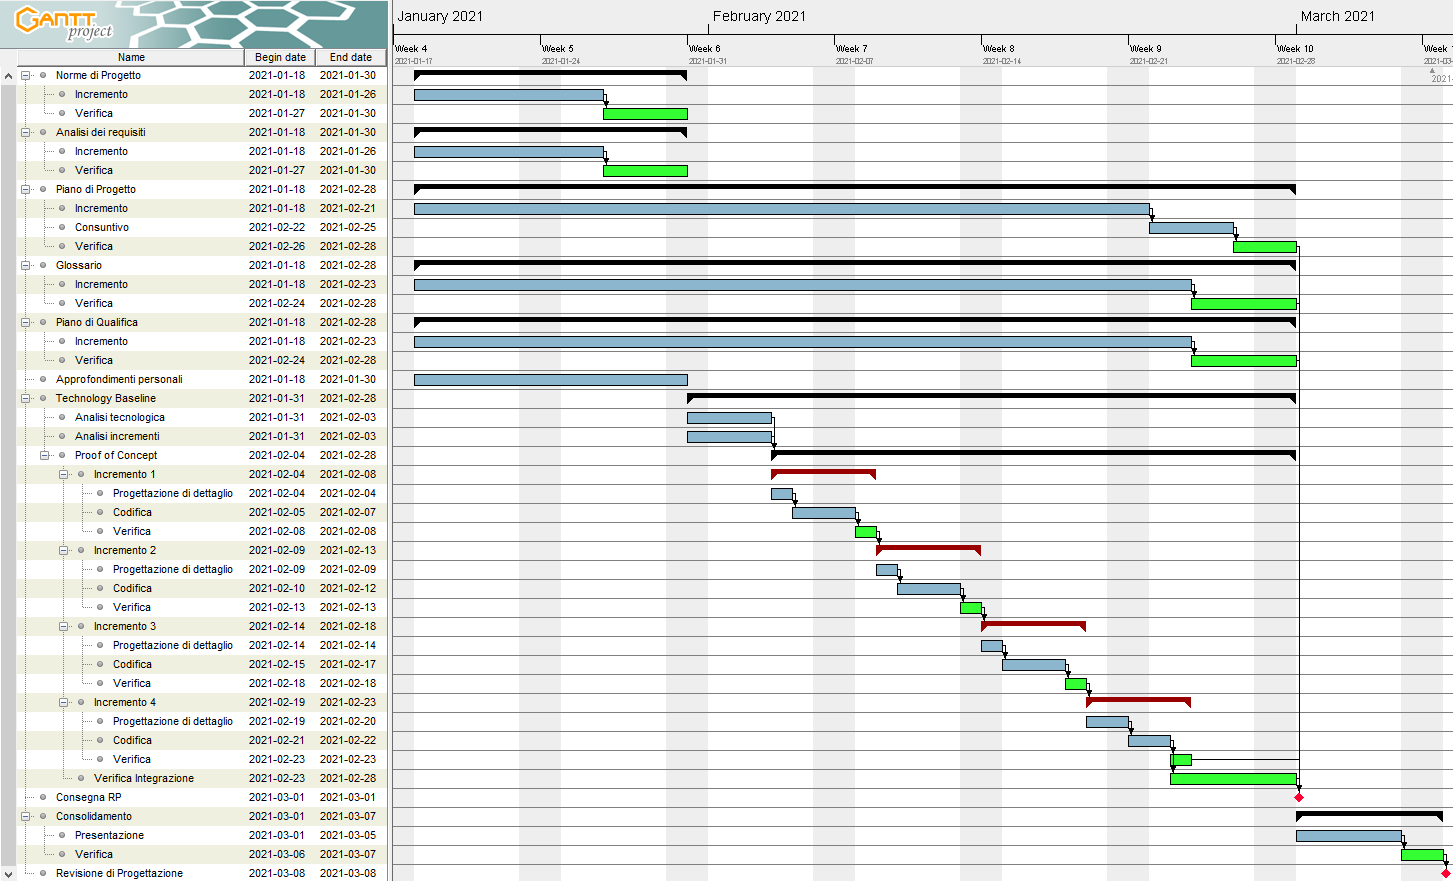
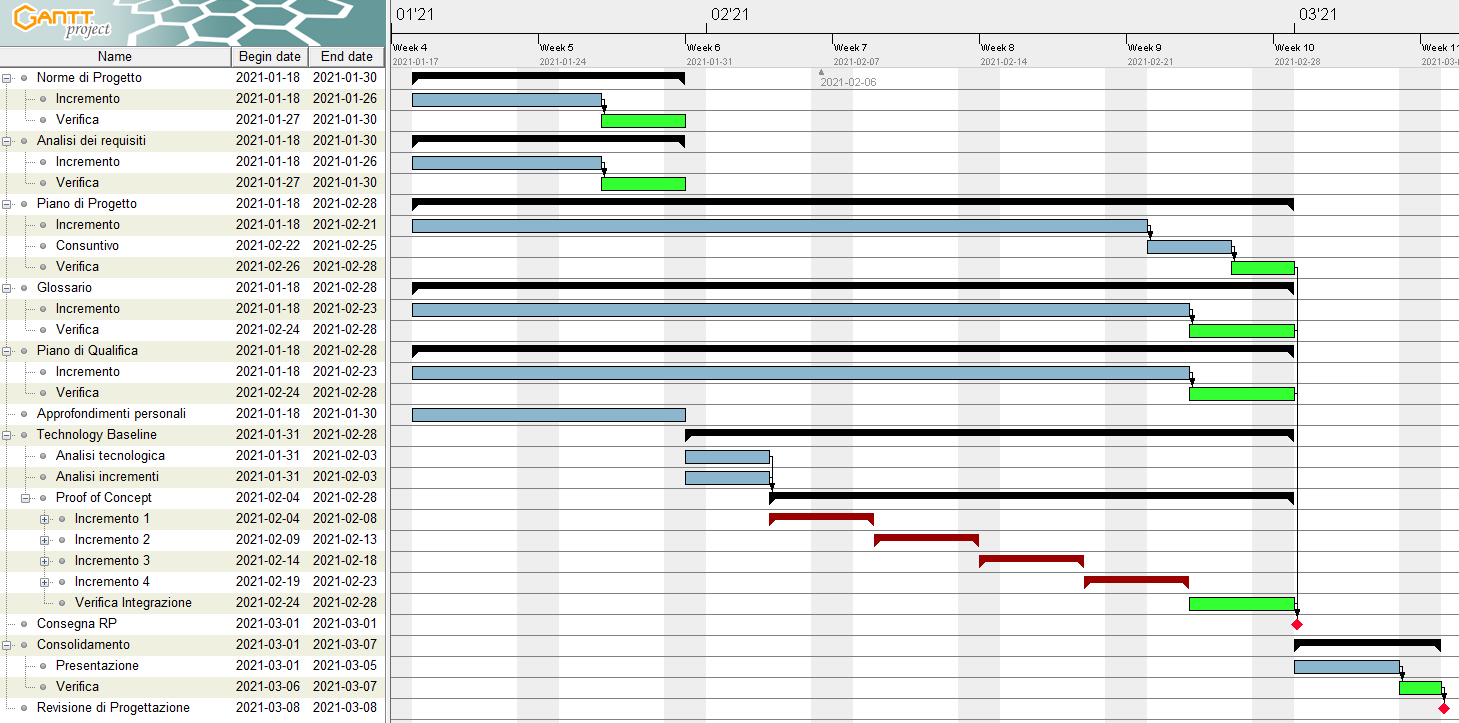
fix pianificazione

diff --git a/DocumentazioneEsterna/PianoDiProgetto/res/Pianificazione/Fasi/progettazione.tex b/DocumentazioneEsterna/PianoDiProgetto/res/Pianificazione/Fasi/progettazione.tex
@@ -51,3 +51,12 @@ Viene svolta l'attività di consolidamento. Il periodo si conclude con la Revisi
 \centerline{\includegraphics[scale=0.5]{res/Pianificazione/Gantt/progettazione}}
 \caption{Diagramma di Gantt per il periodo di progettazione architetturale}
 \end{figure}
+
+Per migliorare la visualizzazione del diagramma, la pianificazione dei singoli incrementi viene rappresentata dal successivo diagramma, che ha una durata di 5 giorni.\\
+
+\begin{figure}[H]
+\centering
+
+\centerline{\includegraphics[scale=1]{res/Pianificazione/Gantt/incrementoProgettazione}}
+\caption{Diagramma di Gantt per i singoli incrementi nel periodo di progettazione architetturale}
+\end{figure}

diff --git a/DocumentazioneEsterna/PianoDiProgetto/res/DiarioModifiche.tex b/DocumentazioneEsterna/PianoDiProgetto/res/DiarioModifiche.tex
@@ -15,6 +15,7 @@
 \textbf{Descrizione}\\
 \endhead
 
+1.0.1 & 2021-01-29 & \MB{} & \respProg & Correzione \S{4} e \S{5}.\\
 1.0.0 & 2021-01-09 & \MB{} & \respProg & Approvazione documento per RR.\\
 0.2.0 & 2021-01-06 & \SB{} & \verifProg & Documento verificato.\\
 0.1.6 & 2021-01-05 & \MB{} & \respProg & Stesura \S{6} e \S{A}.\\
